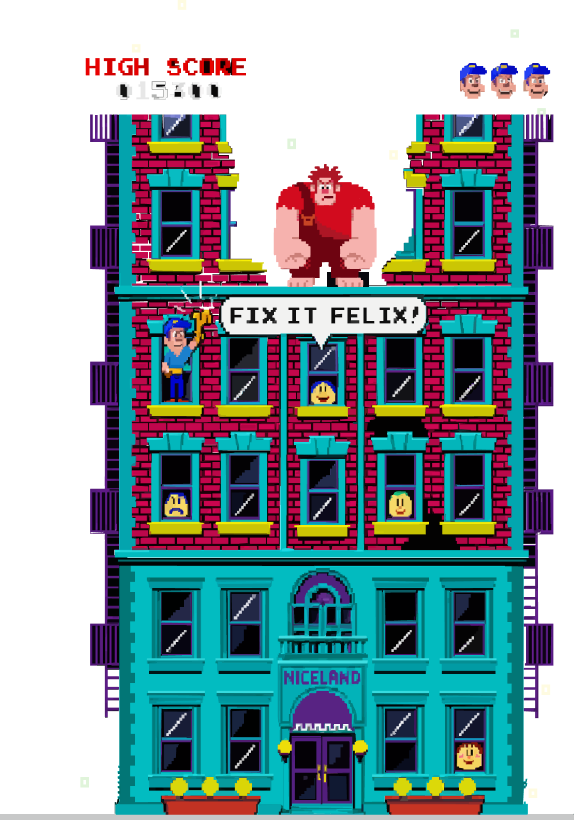
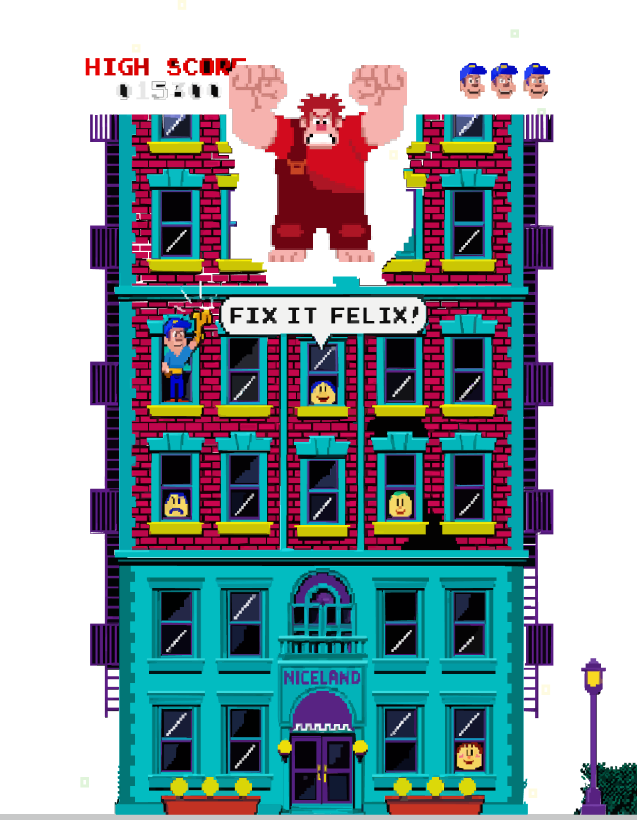
feat: added animations and made ui better

diff --git a/apps/web/components/faqs/Faq.tsx b/apps/web/components/faqs/Faq.tsx
@@ -1,3 +1,8 @@
+"use client";
+
+import { useCallback, useEffect, useRef, useState } from "react";
+import Image from "next/image";
+
 import { FaqAccordion } from "./FaqAccordion";
 import { FaqFooterBar } from "./FaqFooterBar";
 import { FaqHeader } from "./FaqHeader";
@@ -5,31 +10,48 @@ import { FaqSideArt } from "./FaqSideArt";
 import { Starfield } from "../hero/Starfield";
 
 export function Faq() {
+    const [isJumping, setIsJumping] = useState(false);
+    const [isActive, setIsActive] = useState(false);
+    const jumpTimer = useRef<ReturnType<typeof setTimeout> | null>(null);
+
+    const handleToggle = useCallback(() => {
+        setIsJumping(true);
+        if (jumpTimer.current) clearTimeout(jumpTimer.current);
+        jumpTimer.current = setTimeout(() => setIsJumping(false), 700);
+    }, []);
+
+    useEffect(() => {
+        return () => { if (jumpTimer.current) clearTimeout(jumpTimer.current); };
+    }, []);
+
     return (
         <section className="relative isolate flex h-[100svh] flex-col overflow-hidden bg-ink">
             <Starfield />
 
-            {/* Side art — absolutely positioned, desktop only */}
-            <div className="pointer-events-none absolute inset-0 bottom-5 z-[5] hidden lg:block sm:bottom-6">
-                <FaqSideArt />
+            {/* Side art — absolutely positioned, tablet+ */}
+            <div className="pointer-events-none absolute inset-0 bottom-5 z-[5] hidden md:block sm:bottom-6">
+                <FaqSideArt isJumping={isJumping} isActive={isActive} />
             </div>
 
             <div className="relative z-10 flex flex-1 min-h-0 flex-col">
                 <FaqHeader />
 
                 {/* Mobile ralph image */}
-                <div className="flex justify-center pt-6 lg:hidden">
-                    <img
-                        src="/faq/ralph.png"
+                <div className="flex justify-center pt-6 md:hidden">
+                    <Image
+                        src={isActive ? "/faq/ralph.png" : "/faq/ralph-calm.png"}
                         alt="Wreck-It Ralph pixel art"
-                        className="h-auto w-32 sm:w-40"
+                        width={129}
+                        height={143}
+                        unoptimized
+                        className={`h-auto w-32 sm:w-40${isJumping ? " ralph-jump" : ""}`}
                         style={{ imageRendering: "pixelated" }}
                     />
                 </div>
 
-                <div className="mx-auto flex w-full max-w-6xl flex-1 items-start px-5 pt-2 pb-4 sm:px-8 lg:items-center lg:pt-0 lg:px-12">
-                    <div className="h-full w-full lg:w-[65%]">
-                        <FaqAccordion />
+                <div className="mx-auto flex w-full max-w-6xl flex-1 items-start px-5 pt-2 pb-4 sm:px-8 md:items-center md:pt-0 md:px-10 lg:px-12">
+                    <div className="h-full w-full md:w-[70%] lg:w-[65%]">
+                        <FaqAccordion onToggle={handleToggle} onActiveChange={setIsActive} />
                     </div>
                 </div>
             </div>

diff --git a/apps/web/app/faqs.css b/apps/web/app/faqs.css
@@ -27,11 +27,85 @@
     grid-template-rows: 1fr;
 }
 
+/* ── Pixel-art stepped corners ── */
+.faq-pixel-corners {
+    clip-path: polygon(
+        0 6px, 6px 6px, 6px 0,
+        calc(100% - 6px) 0, calc(100% - 6px) 6px, 100% 6px,
+        100% calc(100% - 6px), calc(100% - 6px) calc(100% - 6px), calc(100% - 6px) 100%,
+        6px 100%, 6px calc(100% - 6px), 0 calc(100% - 6px)
+    );
+}
+
+/* ── Glow pulse on open FAQ items (filter-based for clip-path compat) ── */
+@keyframes glow-filter-pink {
+    0%, 100% { filter: drop-shadow(0 0 6px #e5349e88); }
+    50%      { filter: drop-shadow(0 0 14px #e5349ecc); }
+}
+@keyframes glow-filter-yellow {
+    0%, 100% { filter: drop-shadow(0 0 6px #fec41488); }
+    50%      { filter: drop-shadow(0 0 14px #fec414cc); }
+}
+@keyframes glow-filter-cyan {
+    0%, 100% { filter: drop-shadow(0 0 6px #23eff188); }
+    50%      { filter: drop-shadow(0 0 14px #23eff1cc); }
+}
+
+.faq-item--open[data-color="pink"]   { animation: glow-filter-pink   1.8s ease-in-out infinite; }
+.faq-item--open[data-color="yellow"] { animation: glow-filter-yellow  1.8s ease-in-out infinite; }
+.faq-item--open[data-color="cyan"]   { animation: glow-filter-cyan   1.8s ease-in-out infinite; }
+
+/* ── Dot glow pulse (box-shadow, no clip-path) ── */
+@keyframes glow-pink {
+    0%, 100% { box-shadow: 0 0 8px -2px #e5349e, 0 0 20px -4px #e5349e44; }
+    50%      { box-shadow: 0 0 18px -2px #e5349e, 0 0 36px -4px #e5349e66; }
+}
+@keyframes glow-yellow {
+    0%, 100% { box-shadow: 0 0 8px -2px #fec414, 0 0 20px -4px #fec41444; }
+    50%      { box-shadow: 0 0 18px -2px #fec414, 0 0 36px -4px #fec41466; }
+}
+@keyframes glow-cyan {
+    0%, 100% { box-shadow: 0 0 8px -2px #23eff1, 0 0 20px -4px #23eff144; }
+    50%      { box-shadow: 0 0 18px -2px #23eff1, 0 0 36px -4px #23eff166; }
+}
+
+.faq-dot--open[data-color="pink"]   { animation: glow-pink   1.8s ease-in-out infinite; }
+.faq-dot--open[data-color="yellow"] { animation: glow-yellow  1.8s ease-in-out infinite; }
+.faq-dot--open[data-color="cyan"]   { animation: glow-cyan   1.8s ease-in-out infinite; }
+
+/* ── Ralph bounce ── */
+@keyframes ralph-bounce {
+    0%   { transform: translateY(0); }
+    15%  { transform: translateY(-18px); }
+    30%  { transform: translateY(0); }
+    42%  { transform: translateY(-10px); }
+    54%  { transform: translateY(0); }
+    63%  { transform: translateY(-4px); }
+    72%  { transform: translateY(0); }
+    100% { transform: translateY(0); }
+}
+
+.ralph-jump {
+    animation: ralph-bounce 0.7s cubic-bezier(0.33, 1, 0.68, 1);
+}
+
 @media (prefers-reduced-motion: reduce) {
 
     .faq-item__icon,
     .faq-item__panel {
         transition: none;
+    }
 
+    .faq-item--open[data-color="pink"],
+    .faq-item--open[data-color="yellow"],
+    .faq-item--open[data-color="cyan"],
+    .faq-dot--open[data-color="pink"],
+    .faq-dot--open[data-color="yellow"],
+    .faq-dot--open[data-color="cyan"] {
+        animation: none;
+    }
+
+    .ralph-jump {
+        animation: none;
     }
 }

diff --git a/apps/web/components/faqs/FaqSideArt.tsx b/apps/web/components/faqs/FaqSideArt.tsx
@@ -1,18 +1,42 @@
-export function FaqSideArt() {
+import Image from "next/image";
+
+type FaqSideArtProps = {
+    isJumping?: boolean;
+    isActive?: boolean;
+};
+
+export function FaqSideArt({ isJumping = false, isActive = false }: FaqSideArtProps) {
     return (
         <div className="relative h-full w-full">
-            <img
-                src="/faq/ralph.png"
+            <Image
+                src={isActive ? "/faq/ralph.png" : "/faq/ralph-calm.png"}
                 alt="Wreck-It Ralph pixel art"
-                className="block h-auto w-full lg:hidden"
+                width={129}
+                height={143}
+                unoptimized
+                className="block h-auto w-full md:hidden"
                 style={{ imageRendering: "pixelated" }}
             />
-            <img
-                src="/faq/wreck-it-ralph.png"
-                alt="Wreck-It Ralph pixel art arcade building"
-                className="absolute bottom-0 right-[8%] hidden h-[75%] w-auto object-contain object-bottom lg:block"
-                style={{ imageRendering: "pixelated" }}
-            />
+            <div className="absolute bottom-0 right-[8%] hidden h-[75%] w-auto md:block">
+                <Image
+                    src="/faq/building.png"
+                    alt="Niceland arcade building"
+                    width={637}
+                    height={820}
+                    unoptimized
+                    className="h-full w-auto object-contain object-bottom"
+                    style={{ imageRendering: "pixelated" }}
+                />
+                <Image
+                    src={isActive ? "/faq/ralph.png" : "/faq/ralph-calm.png"}
+                    alt="Wreck-It Ralph pixel art"
+                    width={129}
+                    height={143}
+                    unoptimized
+                    className={`absolute left-1/2 top-[18%] w-[20%] -translate-x-1/2 object-contain${isJumping ? " ralph-jump" : ""}`}
+                    style={{ imageRendering: "pixelated" }}
+                />
+            </div>
         </div>
     );
 }

diff --git a/apps/web/components/faqs/FaqAccordion.tsx b/apps/web/components/faqs/FaqAccordion.tsx
@@ -17,7 +17,7 @@ const DOT_FILL: Record<string, string> = {
     cyan: "bg-brand-cyan",
 };
 
-export function FaqAccordion() {
+export function FaqAccordion({ onToggle: onToggleCallback, onActiveChange }: { onToggle?: () => void; onActiveChange?: (isActive: boolean) => void } = {}) {
     const [openIndex, setOpenIndex] = useState<number | null>(null);
 
     return (
@@ -32,7 +32,8 @@ export function FaqAccordion() {
                     <li key={entry.question} className="relative flex items-center gap-4 sm:gap-5">
                         <div className="flex w-5 shrink-0 items-center justify-center sm:w-6">
                             <span
-                                className={`relative z-10 flex size-5 items-center justify-center rounded-full border-2 bg-ink sm:size-6 ${DOT_RING[entry.color]}`}
+                                data-color={entry.color}
+                                className={`relative z-10 flex size-5 items-center justify-center rounded-full border-2 bg-ink sm:size-6 ${DOT_RING[entry.color]}${openIndex === index ? " faq-dot--open" : ""}`}
                             >
                                 <span className={`size-2 rounded-full sm:size-2.5 ${DOT_FILL[entry.color]}`} />
                             </span>
@@ -41,7 +42,12 @@ export function FaqAccordion() {
                             <FaqItem
                                 entry={entry}
                                 isOpen={openIndex === index}
-                                onToggle={() => setOpenIndex(openIndex === index ? null : index)}
+                                onToggle={() => {
+                                    const nextIndex = openIndex === index ? null : index;
+                                    setOpenIndex(nextIndex);
+                                    onActiveChange?.(nextIndex !== null);
+                                    onToggleCallback?.();
+                                }}
                             />
                         </div>
                     </li>

diff --git a/apps/api/src/validations/slot.validation.ts b/apps/api/src/validations/slot.validation.ts
@@ -17,14 +17,16 @@ const isoDate = z.iso.datetime({ offset: true }).transform((value) => new Date(v
  * omit, drizzle-zod would expose it as optional and let a client choose its own
  * primary key.
  */
-const slotFields = createInsertSchema(slots, {
-  capacity: (schema) => schema.min(0, "capacity must be a non-negative integer"),
+// eslint-disable-next-line @typescript-eslint/no-explicit-any -- drizzle-zod Table type mismatch in monorepo
+const slotFields = createInsertSchema(slots as any, {
+  // eslint-disable-next-line @typescript-eslint/no-explicit-any
+  capacity: (schema: any) => schema.min(0, "capacity must be a non-negative integer"),
 })
   .omit({ id: true })
   .extend({ startTime: isoDate, endTime: isoDate });
 
 export const slotInputSchema = slotFields.refine(
-  (value) => value.startTime < value.endTime,
+  (value) => value.startTime! < value.endTime!,
   { message: "startTime must be before endTime", path: ["startTime"] },
 );
 
@@ -62,7 +64,8 @@ export const slotIdSchema = z.object({ params: slotIdParams });
  * serialisation produces, whereas `createSelectSchema` types them as `Date`,
  * which has no JSON Schema representation.
  */
-export const slotResponseSchema = createSelectSchema(slots).extend({
+// eslint-disable-next-line @typescript-eslint/no-explicit-any -- drizzle-zod Table type mismatch in monorepo
+export const slotResponseSchema = createSelectSchema(slots as any).extend({
   startTime: z.iso.datetime(),
   endTime: z.iso.datetime(),
 });

diff --git a/apps/web/components/faqs/FaqItem.tsx b/apps/web/components/faqs/FaqItem.tsx
@@ -17,7 +17,8 @@ export function FaqItem({ entry, isOpen, onToggle }: FaqItemProps) {
 
     return (
         <div
-            className={`rounded-lg border-[3px] bg-ink/60 px-4 py-3 shadow-[0_0_14px_-4px_currentColor] transition-colors sm:px-5 sm:py-3 ${colors.border} ${colors.text}`}
+            data-color={entry.color}
+            className={`faq-pixel-corners border-[3px] bg-ink/60 px-4 py-3 transition-colors sm:px-5 sm:py-3 ${colors.border} ${colors.text}${isOpen ? " faq-item--open" : ""}`}
         >
             <button
                 type="button"
@@ -33,8 +34,8 @@ export function FaqItem({ entry, isOpen, onToggle }: FaqItemProps) {
                     data-open={isOpen}
                     aria-hidden
                 >
-                    <span className={`absolute inset-0 m-auto h-[68%] w-[2.5px] rounded-sm sm:w-[3px] ${colors.bg}`} />
-                    <span className={`absolute inset-0 m-auto h-[2.5px] w-[68%] rounded-sm sm:h-[3px] ${colors.bg}`} />
+                    <span className={`absolute inset-0 m-auto h-[68%] w-[2.5px] rounded-sm sm:w-[3px] bg-white`} />
+                    <span className={`absolute inset-0 m-auto h-[2.5px] w-[68%] rounded-sm sm:h-[3px] bg-white`} />
                 </span>
             </button>
 

diff --git a/apps/web/components/faqs/FaqFooterBar.tsx b/apps/web/components/faqs/FaqFooterBar.tsx
@@ -1,7 +1,7 @@
 export function FaqFooterBar() {
     return (
         <div
-            className="relative z-10 hidden h-5 w-full shrink-0 bg-brand-purple shadow-[0_-2px_20px_-2px_var(--color-brand-purple)] sm:h-6 lg:block"
+            className="relative z-10 hidden h-5 w-full shrink-0 bg-brand-purple shadow-[0_-2px_20px_-2px_var(--color-brand-purple)] sm:h-6 md:block"
             aria-hidden
         />
     );

diff --git a/apps/api/src/validations/slot.validation.test.ts b/apps/api/src/validations/slot.validation.test.ts
@@ -17,7 +17,7 @@ describe("slotInputSchema", () => {
     const result = slotInputSchema.parse(validInput);
     expect(result.startTime).toBeInstanceOf(Date);
     expect(result.endTime).toBeInstanceOf(Date);
-    expect(result.capacity).toBe(10);
+    expect(result.capacity).toEqual(10);
   });
 
   test("rejects startTime equal to endTime", () => {
